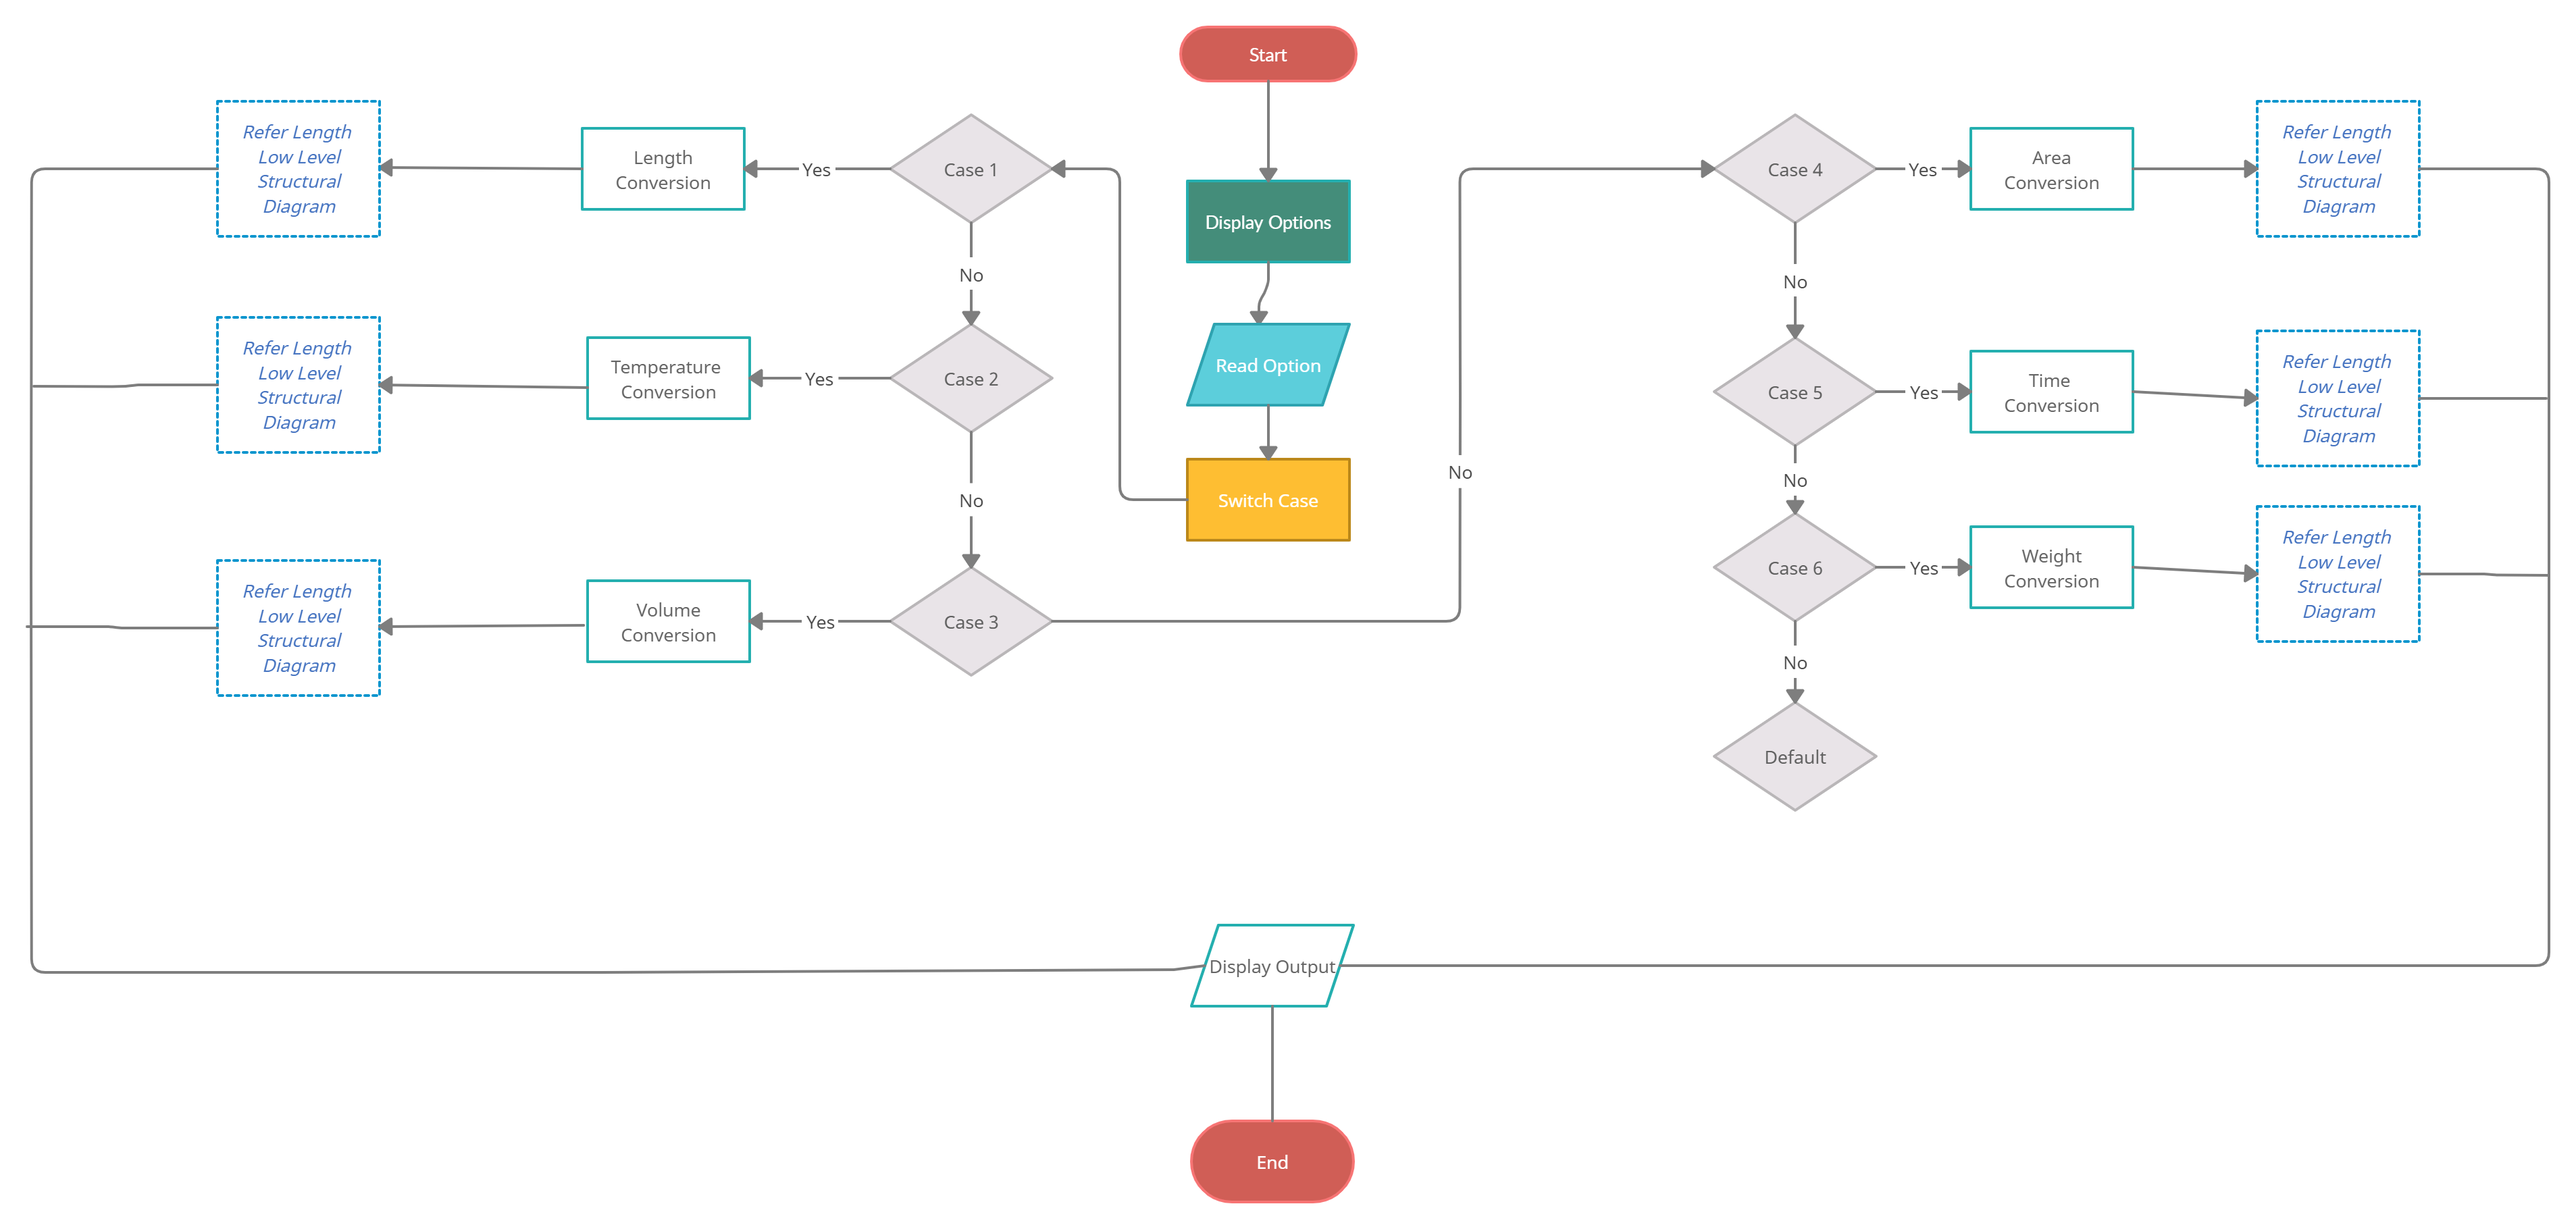
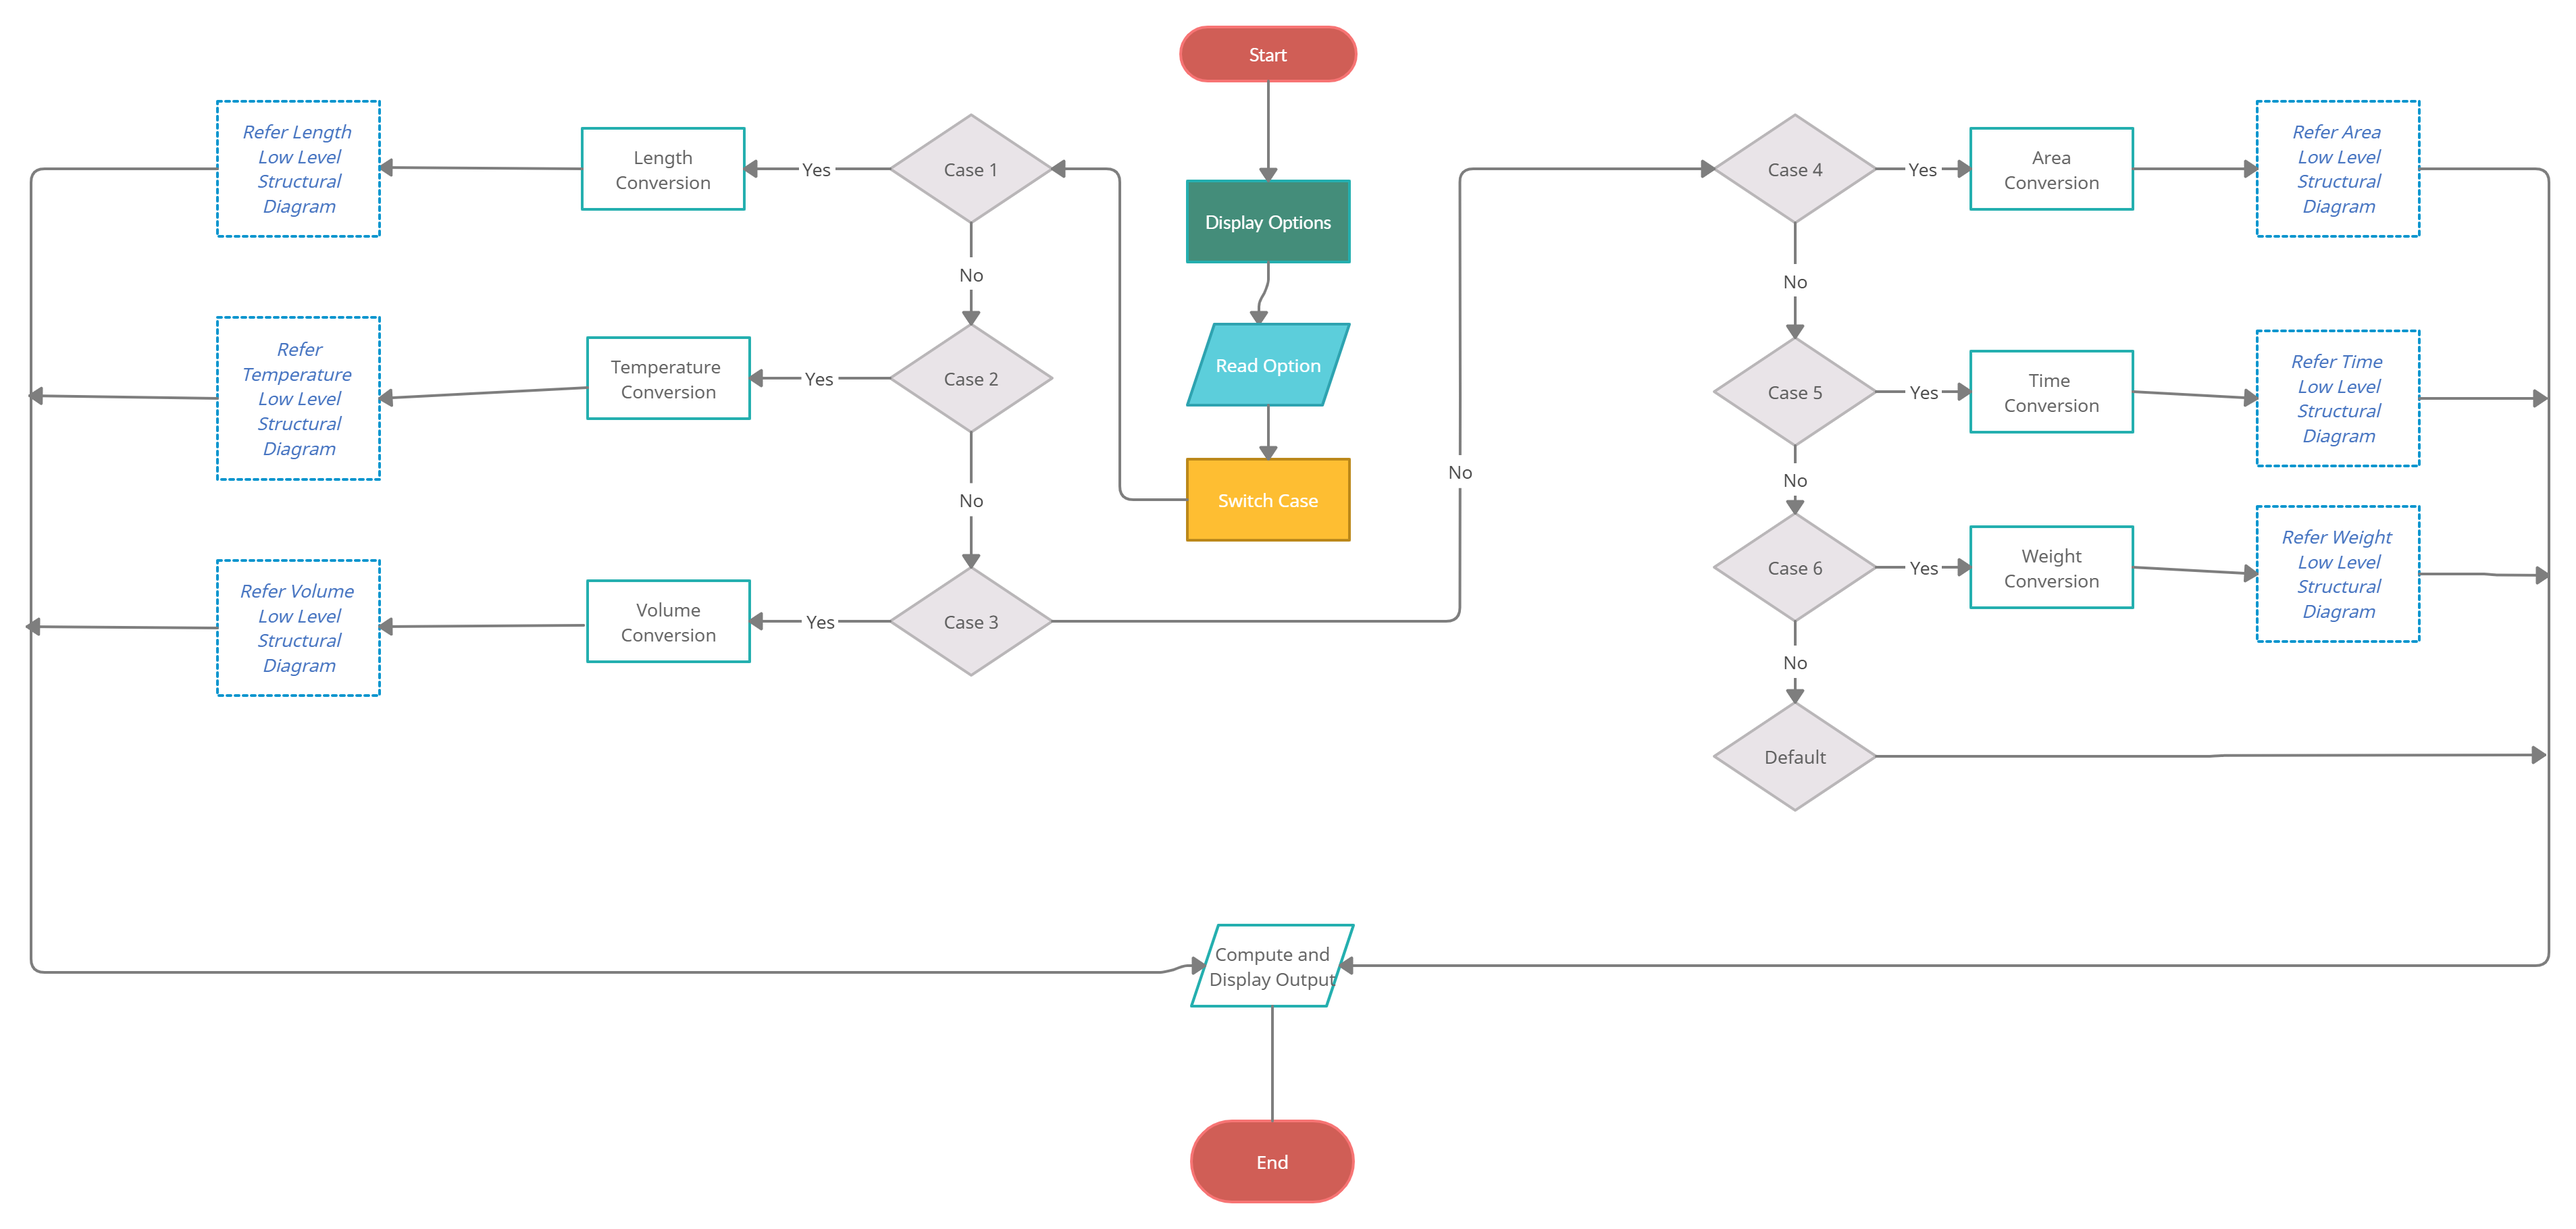
Update LL Structure diagram

diff --git a/2_Architecture/structure Diagrams/README.md b/2_Architecture/structure Diagrams/README.md
@@ -8,4 +8,26 @@
 
 ![Low-Level-Structural-Diagram](https://github.com/KrShivanshu/CMiniProject/blob/main/6_ImagesAndVideos/Architecture/Low%20Level%20Structural%20Diagram.jpg)
 
+* Lenght Low Level
 
+![Lenght-Low-Level-Structural-Diagram]()
+
+* Temperature Low Level
+
+![Temperature-Low-Level-Structural-Diagram]()
+
+* Volume Low Level
+
+![Volume-Low-Level-Structural-Diagram]()
+
+* Area Low Level
+
+![Area-Low-Level-Structural-Diagram]()
+
+* Weight Low Level
+
+![Weight-Low-Level-Structural-Diagram]()
+
+* Time Low Level
+
+![Time-Low-Level-Structural-Diagram]()
